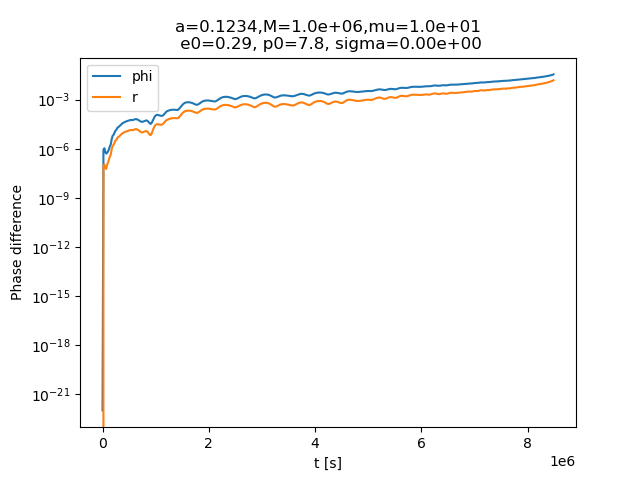
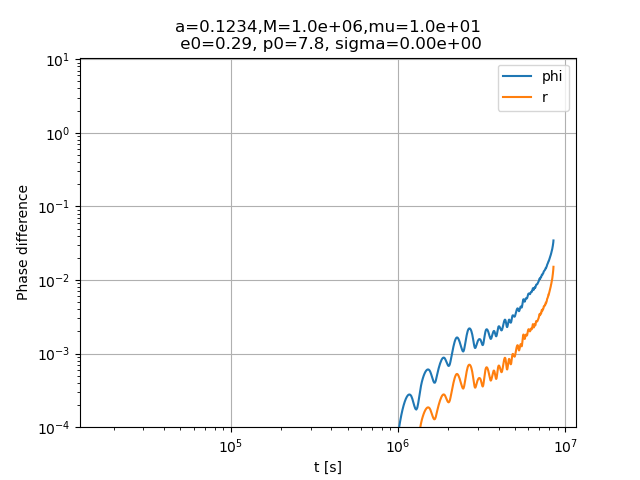
final fix round off error

diff --git a/FastEMRIWaveforms/src/Utility.cc b/FastEMRIWaveforms/src/Utility.cc
@@ -305,6 +305,8 @@ void KerrGeoEquatorialMinoFrequencies(double* CapitalGamma_, double* CapitalUpsi
     // get radial roots
     double r1, r2, r3, r4;
     KerrGeoRadialRoots(&r1, &r2, &r3, &r4, a, p, e, x, En, Q);
+    // long double r1long, r2long, r3long, r4long;
+    // KerrGeoRadialRootsLong(&r1long, &r2long, &r3long, &r4long, a, p, e, x, En, Q);
 
     double Epsilon0 = (a*a) * (1 - (En*En))/(L*L);
     //double zm = 0;
@@ -319,22 +321,25 @@ void KerrGeoEquatorialMinoFrequencies(double* CapitalGamma_, double* CapitalUpsi
     double CapitalUpsilonr = (M_PI * sqrt((1 - (En*En)) * (r1-r3) * (r2)))/(2 * EllipticK((kr*kr))); //(*Eq.(15)*)
     double CapitalUpsilonTheta= x * sqrt(zp); //(*Eq.(15)*)
 
-    double rp = M + sqrt((M*M) - (a*a));
-    double rm = M - sqrt((M*M) - (a*a));
-
-    // introduced to avoid round off errors
-    long double r1long, r2long, r3long, r4long;
-    KerrGeoRadialRootsLong(&r1long, &r2long, &r3long, &r4long, a, p, e, x, En, Q);
     long double Mlong=1.0;
     long double along=a;
     long double rplong = Mlong + sqrt((Mlong*Mlong) - (along*along));
+    long double diff_r3_rp = r3 - Mlong; // r3-rp
+    diff_r3_rp = rplong*diff_r3_rp - sqrt((Mlong*Mlong) - (along*along))*rplong;
+
+    double rp = M + sqrt((M*M) - (a*a));
+    double rm = M - sqrt((M*M) - (a*a));
+
     // diff_r3_rp was introduced to avoid round off errors
-    long double diff_r3_rp = r3long - rplong;
+    // double diff_r3_rp = r3 - M; // r3-rp
+    // diff_r3_rp = rp*diff_r3_rp - sqrt((M*M) - (a*a))*rp;
+    
     
     // if (abs(diff_r3_rp)<(long double)1e-16){
-    //     printf("round off error %Le.\n", diff_r3_rp);
-    //     diff_r3_rp = 1e-15;
+    //     printf("round off error %Lf:\n", diff_r3_rp);
+    //     // diff_r3_rp = 1e-15;
     // }
+    // Omega 3.164623e+00       1.506353e+01:
 
 
     double hr = (r1 - r2)/(r1 - r3);
@@ -342,12 +347,11 @@ void KerrGeoEquatorialMinoFrequencies(double* CapitalGamma_, double* CapitalUpsi
     double hm = ((r1 - r2) * (r3 - rm))/((r1 - r3) * (r2 - rm));
 
     // (*Eq. (21)*)
-    double CapitalUpsilonPhi = (CapitalUpsilonTheta)/(sqrt(Epsilon0zp)) + (2 * a * CapitalUpsilonr)/(M_PI * (rp - rm) * sqrt((1 - (En*En)) * (r1 - r3) * (r2 - r4))) * ( (2 * M * En * rp - a * L)/diff_r3_rp * (EllipticK((kr*kr)) - (r2 - r3)/(r2 - rp) * EllipticPi(hp, (kr*kr))) - (2 * M * En * rm - a * L)/(r3 - rm) * (EllipticK((kr*kr)) - (r2 - r3)/(r2 - rm) * EllipticPi(hm, pow(kr,2))) );
+    double CapitalUpsilonPhi = (CapitalUpsilonTheta)/(sqrt(Epsilon0zp)) + (2 * a * CapitalUpsilonr)/(M_PI * (rp - rm) * sqrt((1 - (En*En)) * (r1 - r3) * (r2 - r4))) * ( (2 * M * En * rp - a * L)*rp/(diff_r3_rp) * (EllipticK((kr*kr)) - (r2 - r3)/(r2 - rp) * EllipticPi(hp, (kr*kr))) - (2 * M * En * rm - a * L)/(r3 - rm) * (EllipticK((kr*kr)) - (r2 - r3)/(r2 - rm) * EllipticPi(hm, pow(kr,2))) );
 
-    double CapitalGamma = 4 * (M*M) * En+ (2 * CapitalUpsilonr)/(M_PI * sqrt((1 - (En*En)) * (r1 - r3) * (r2 - r4))) * (En/2 * ((r3 * (r1 + r2 + r3) - r1 * r2) * EllipticK((kr*kr)) + (r2 - r3) * (r1 + r2 + r3 + r4) * EllipticPi(hr,(kr*kr)) + (r1 - r3) * (r2 - r4) * EllipticE((kr*kr))) + 2 * M * En * (r3 * EllipticK((kr*kr)) + (r2 - r3) * EllipticPi(hr,(kr*kr))) + (2* M)/(rp - rm) * (((4 * (M*M) * En - a * L) * rp - 2 * M * (a*a) * En)/diff_r3_rp * (EllipticK((kr*kr)) - (r2 - r3)/(r2 - rp) * EllipticPi(hp, (kr*kr))) - ((4 * (M*M) * En - a * L) * rm - 2 * M * (a*a) * En)/(r3 - rm) * (EllipticK((kr*kr)) - (r2 - r3)/(r2 - rm) * EllipticPi(hm,(kr*kr)))));
+    double CapitalGamma = 4 * (M*M) * En+ (2 * CapitalUpsilonr)/(M_PI * sqrt((1 - (En*En)) * (r1 - r3) * (r2 - r4))) * (En/2 * ((r3 * (r1 + r2 + r3) - r1 * r2) * EllipticK((kr*kr)) + (r2 - r3) * (r1 + r2 + r3 + r4) * EllipticPi(hr,(kr*kr)) + (r1 - r3) * (r2 - r4) * EllipticE((kr*kr))) + 2 * M * En * (r3 * EllipticK((kr*kr)) + (r2 - r3) * EllipticPi(hr,(kr*kr))) + (2* M)/(rp - rm) * (((4 * (M*M) * En - a * L) * rp - 2 * M * (a*a) * En)*rp/(diff_r3_rp) * (EllipticK((kr*kr)) - (r2 - r3)/(r2 - rp) * EllipticPi(hp, (kr*kr))) - ((4 * (M*M) * En - a * L) * rm - 2 * M * (a*a) * En)/(r3 - rm) * (EllipticK((kr*kr)) - (r2 - r3)/(r2 - rm) * EllipticPi(hm,(kr*kr)))));
 
-    
-    
+    // printf("Omega %e \t %e:\n", CapitalUpsilonPhi, CapitalGamma);
     *CapitalGamma_ = CapitalGamma;
     *CapitalUpsilonPhi_ = CapitalUpsilonPhi;
     *CapitalUpsilonTheta_ = abs(CapitalUpsilonTheta);

diff --git a/check_Susanna/traj_comparison.py b/check_Susanna/traj_comparison.py
@@ -15,7 +15,7 @@ from few.utils.constants import *
 
 traj = EMRIInspiral(func="KerrEccentricEquatorial")
 # run trajectory
-err = 1e-12
+err = 1e-10
 insp_kw = {
     "err": err,
     "DENSE_STEPPING": 0,
@@ -30,22 +30,22 @@ print(os.getpid())
 # initialize trajectory class
 traj = EMRIInspiral(func="KerrEccentricEquatorial")
 
-filename = "evolution_d01_a09_rp6_ra11"#"evolution_GR_a01234_rp6_ra11"
+filename = "evolution_GR_a09876_rp6_ra11"
 # Susanna trajectory
-charge = 0.1
+charge = 0.0
 t_S, p_S, e_S, F1, F2, Om1, Om2, PhiphiS, PhirS = np.loadtxt(filename + ".dat").T
 
 
-a=0.9
+a=0.9876
 M=1e6
 mu=1e1
 p0, e0 = p_S[0], e_S[0]
 
-print([traj.get_rhs_ode(M, mu, a, pp, ee, 1.0, charge)[0] for pp,ee in zip(p_S,e_S)]/F1/(MTSUN_SI * M))
-print([traj.get_rhs_ode(M, mu, a, pp, ee, 1.0, charge)[1] for pp,ee in zip(p_S,e_S)]/F2/(MTSUN_SI * M))
+# print([traj.get_rhs_ode(M, mu, a, pp, ee, 1.0, charge)[0] for pp,ee in zip(p_S,e_S)]/F1/(MTSUN_SI * M))
+# print([traj.get_rhs_ode(M, mu, a, pp, ee, 1.0, charge)[1] for pp,ee in zip(p_S,e_S)]/F2/(MTSUN_SI * M))
 
 # run trajectory
-t, p, e, x, Phi_phi, Phi_theta, Phi_r = traj(M, mu, a, p0, e0, 1.0, charge, T=4.0)
+t, p, e, x, Phi_phi, Phi_theta, Phi_r = traj(M, mu, a, p0, e0, -1.0, charge, T=4.0)
 
 print('run',p0,e0,a)
 
@@ -62,9 +62,11 @@ plt.figure()
 plt.title(f"a={a},M={M:.1e},mu={mu:.1e}\n e0={e0:.2}, p0={p0:.2}, sigma={charge:.2e}")
 plt.loglog(t_S, np.abs(interp(t_S) - PhiphiS),'-',label=f"phi")
 plt.loglog(t_S, np.abs(interp2(t_S) - PhirS),'-',label=f"r")
+plt.ylim(1e-4,10.5)
 plt.xlabel('t [s]')
 plt.ylabel('Phase difference')
 plt.legend()
+plt.grid()
 plt.savefig('Phase_difference_'+filename)
 
 interp = CubicSplineInterpolant(t, p)
